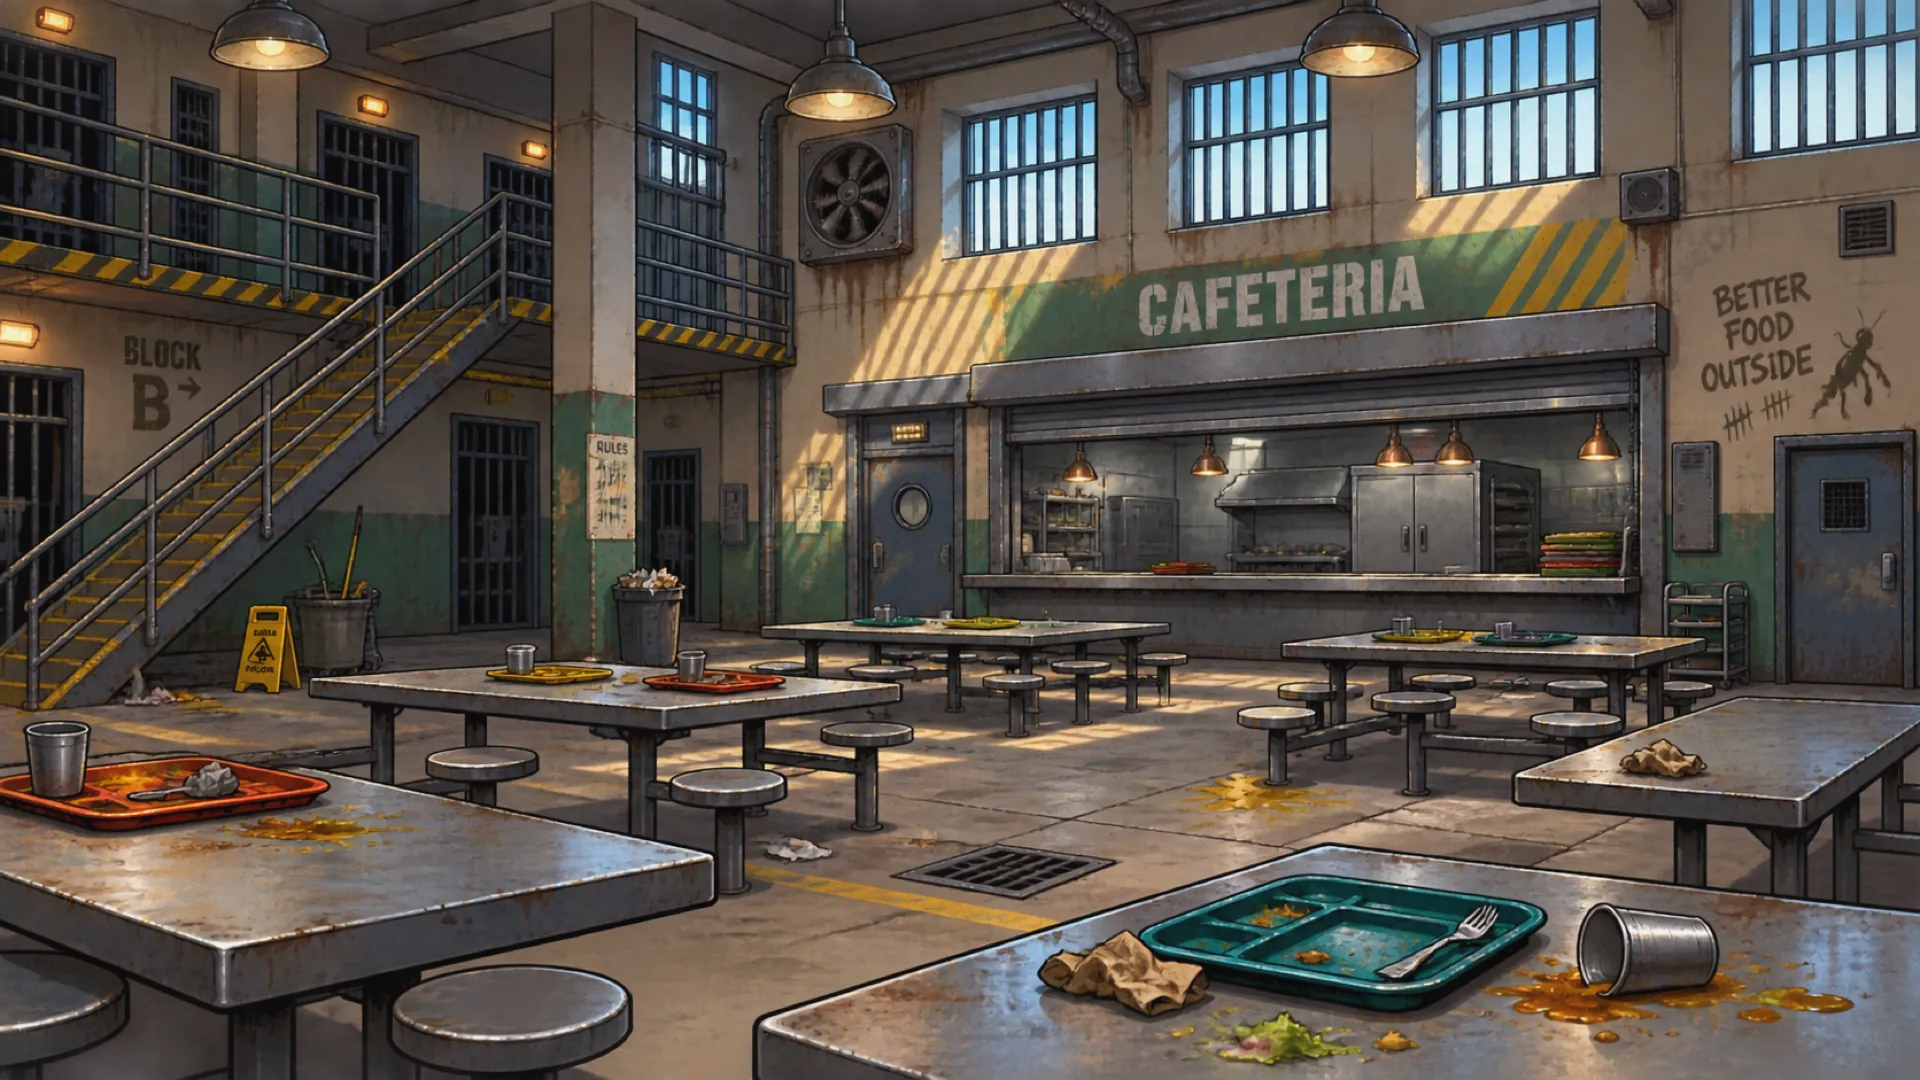
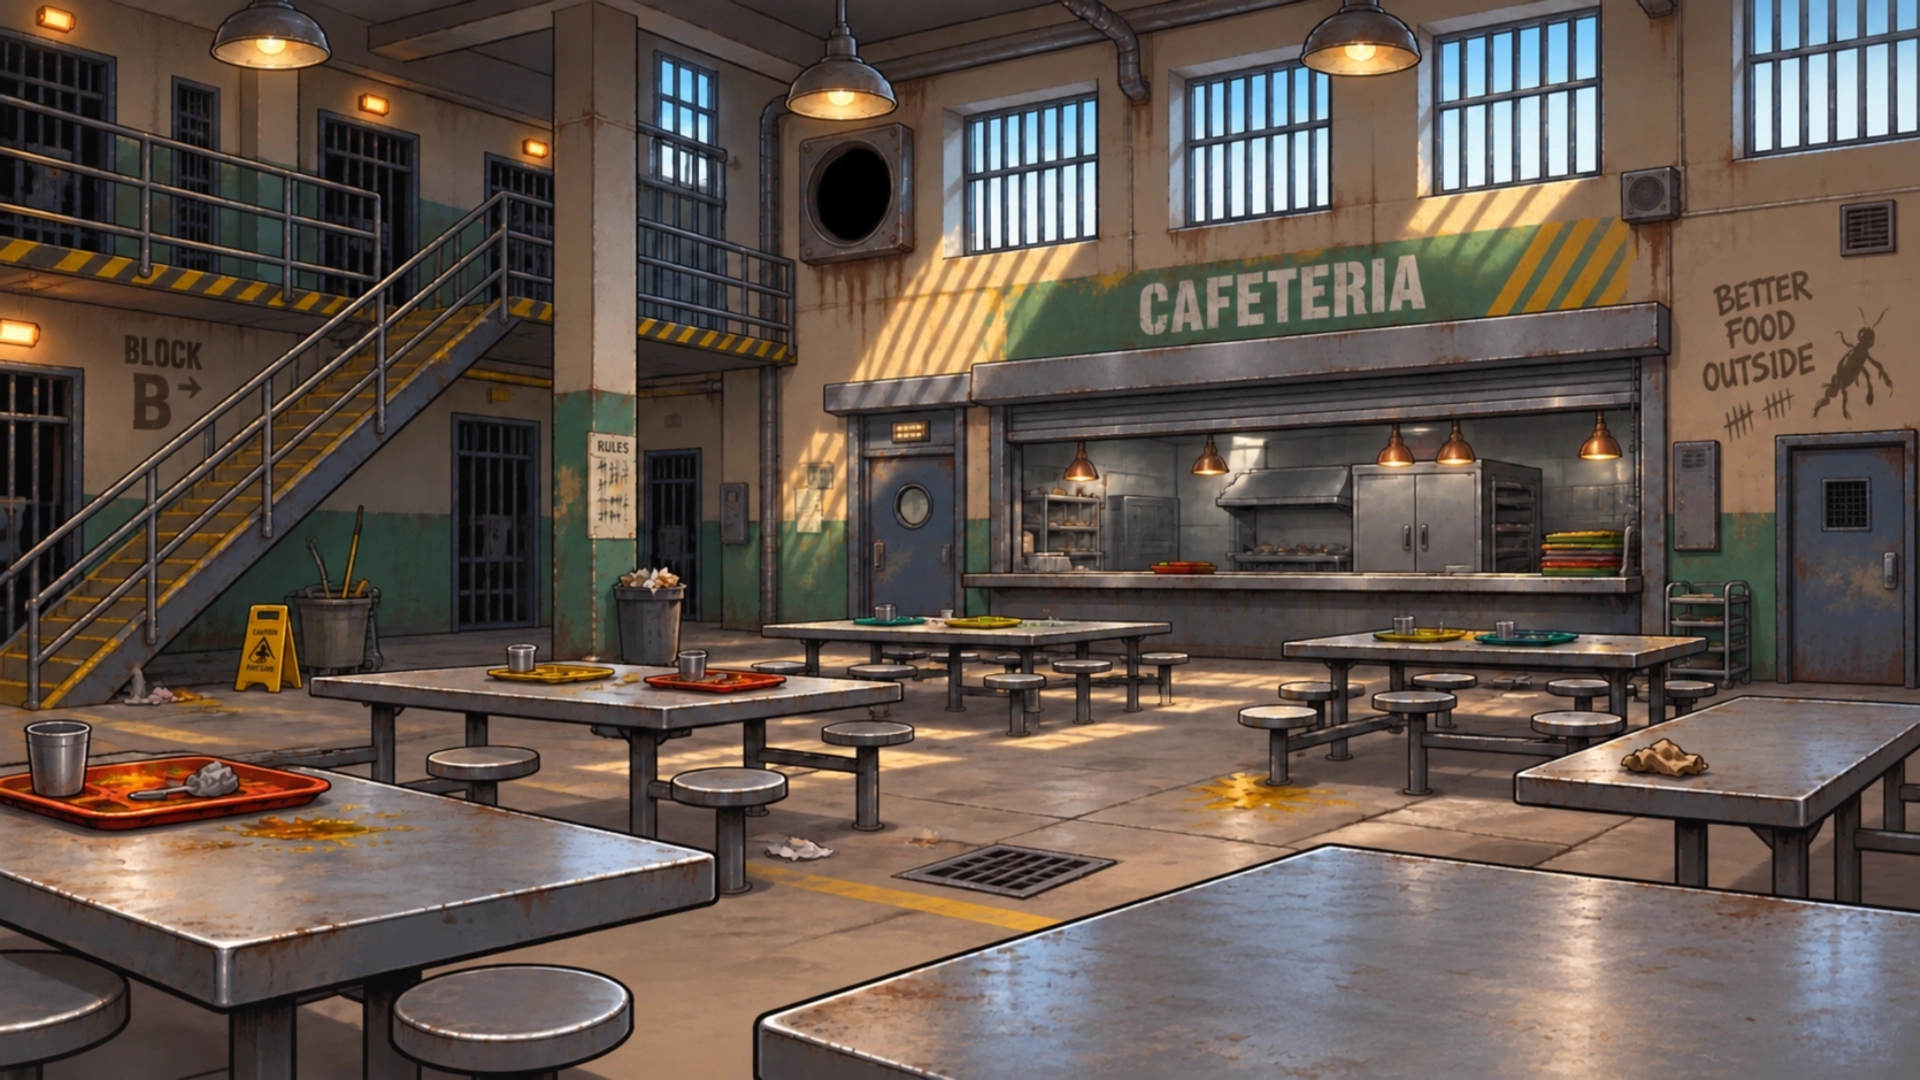
Ambient layer: spinning exhaust fan on the base backdrop
- game/ambientSpec.ts: effects authored in 1920x1080 backdrop px; FAN tuned by Corey in the
  preview (hub 852.5,193.5; k 0.78; tilt 15 deg; 1.45 rev/s; 4 ghosts; clip 38x49)
- components/AmbientFan.svelte: raw Pixi, ticker-driven — blade ring under A·R(alpha), static
  hub cap under A, ghost copies spread over the frame's sweep for blur, Graphics ellipse mask;
  DEV hook window.__angryMantis.ambient.fan
- Background.svelte maps backdrop px through the cover fit and places the fan at zIndex -1.5,
  fading with the base scene
- Backdrop replaced with Corey's empty-housing repaint (1920x1080); fan-blades/fan-hub webp
  gated with it (+40 KB)

Claude-Session: https://claude.ai/code/session_013n4uKDP3YQ8SN8dqeXSaxL

diff --git a/apps/angry_mantis/src/components/AmbientFan.svelte b/apps/angry_mantis/src/components/AmbientFan.svelte
@@ -1,0 +1,91 @@
+<script lang="ts">
+	// Exhaust fan (game/ambientSpec.ts FAN): raw Pixi objects driven from the app ticker, like BoneRig —
+	// no per-frame Svelte props, no filters, no new textures. Tree:
+	//   root (mask: tilted ellipse)
+	//   └ persp  rotation = tilt, scale = (k, 1)      ← the perspective map A
+	//     ├ spin rotation = alpha (ticker)             ← N ghost blade sprites, alpha 1/N, trailing the sweep
+	//     └ hub  static cap, drawn over the blades
+	import * as PIXI from 'pixi.js';
+	import { onMount } from 'svelte';
+	import { getContextParent } from 'pixi-svelte';
+
+	import { getContext } from '../game/context';
+	import { FAN } from '../game/ambientSpec';
+
+	type Props = {
+		/** hub position in canvas px */
+		x: number;
+		y: number;
+		/** backdrop px → canvas px */
+		scale: number;
+		alpha?: number;
+		visible?: boolean;
+		zIndex?: number;
+	};
+	const { x, y, scale, alpha = 1, visible = true, zIndex = 0 }: Props = $props();
+	const context = getContext();
+
+	const root = new PIXI.Container();
+	getContextParent().addToParent(root); // unmount cleanup destroys the subtree
+	const persp = new PIXI.Container();
+	const spin = new PIXI.Container();
+	const tilt = (FAN.tiltDeg * Math.PI) / 180;
+	persp.rotation = tilt;
+	persp.scale.set(FAN.squashK, 1);
+	persp.addChild(spin);
+	root.addChild(persp);
+	// clip: an ellipse rotated with the tilt (NOT squashed — it outlines the housing hole, not the disc)
+	const clip = new PIXI.Graphics().ellipse(0, 0, FAN.clip.rx, FAN.clip.ry).fill(0xffffff);
+	clip.rotation = tilt;
+	root.addChild(clip);
+	root.mask = clip;
+
+	let rate = (FAN.revPerSec * Math.PI * 2) as number;
+	let angle = 0;
+	const ghosts: PIXI.Sprite[] = [];
+
+	onMount(() => {
+		const blades = context.stateApp.loadedAssets?.fanBlades as PIXI.Texture | undefined;
+		const hub = context.stateApp.loadedAssets?.fanHub as PIXI.Texture | undefined;
+		if (!blades || !hub) return;
+		const n = Math.max(1, FAN.blurSamples);
+		for (let i = 0; i < n; i++) {
+			const s = new PIXI.Sprite(blades);
+			s.anchor.set(FAN.pivot.x / blades.width, FAN.pivot.y / blades.height);
+			s.scale.set(FAN.cutoutScale);
+			s.alpha = 1 / n;
+			spin.addChild(s);
+			ghosts.push(s);
+		}
+		const cap = new PIXI.Sprite(hub);
+		cap.anchor.set(FAN.pivot.x / hub.width, FAN.pivot.y / hub.height);
+		cap.scale.set(FAN.cutoutScale);
+		persp.addChild(cap);
+
+		const ticker = context.stateApp.pixiApplication?.ticker;
+		const tick = () => {
+			if (!root.visible || root.worldAlpha <= 0) return;
+			const dt = Math.min(0.05, ticker!.deltaMS / 1000);
+			const sweep = rate * dt;
+			angle = (angle + sweep) % (Math.PI * 2);
+			for (let i = 0; i < ghosts.length; i++) ghosts[i].rotation = angle - (sweep * i) / ghosts.length;
+		};
+		ticker?.add(tick);
+		// test hook (house rules: extend __angryMantis, never a new global)
+		if (import.meta.env.DEV && typeof window !== 'undefined') {
+			const am = ((window as any).__angryMantis ??= {});
+			(am.ambient ??= {}).fan = { setRate: (rps: number) => (rate = rps * Math.PI * 2), angle: () => angle };
+		}
+		return () => {
+			ticker?.remove(tick);
+		};
+	});
+
+	$effect(() => {
+		root.position.set(x, y);
+		root.scale.set(scale);
+		root.alpha = alpha;
+		root.visible = visible;
+		root.zIndex = zIndex;
+	});
+</script>

diff --git a/apps/angry_mantis/src/components/Background.svelte b/apps/angry_mantis/src/components/Background.svelte
@@ -9,6 +9,8 @@
 
 	import { getContext } from '../game/context';
 	import { BACKGROUND_WASH } from '../game/constants';
+	import { BACKDROP, FAN } from '../game/ambientSpec';
+	import AmbientFan from './AmbientFan.svelte';
 
 	const context = getContext();
 	const IMAGE_RATIO = 1920 / 1080;
@@ -21,6 +23,7 @@
 			? { width, height: width / IMAGE_RATIO }
 			: { width: height * IMAGE_RATIO, height };
 	});
+	const backdropScale = $derived(cover.width / BACKDROP.w); // backdrop px → canvas px
 	const freegame = $derived(context.stateGame.gameType === 'freegame');
 	const active = $derived.by(() => {
 		if (!freegame) return 'bgCafeteriaBase';
@@ -52,6 +55,17 @@
 		/>
 	{/if}
 {/each}
+
+<!-- ambient layer, between the base backdrop and the wash: authored in backdrop px (ambientSpec.ts),
+     mapped through the same cover fit as the backdrop sprite. Only the base scene has the fan housing. -->
+<AmbientFan
+	x={context.stateLayoutDerived.canvasSizes().width / 2 + (FAN.hub.x - BACKDROP.w / 2) * backdropScale}
+	y={context.stateLayoutDerived.canvasSizes().height / 2 + (FAN.hub.y - BACKDROP.h / 2) * backdropScale}
+	scale={backdropScale}
+	alpha={alphas[0].current}
+	visible={alphas[0].current > 0}
+	zIndex={-1.5}
+/>
 
 <!-- dark wash so board/chrome contrast holds on the busier cafeteria art; a touch darker in free
      spins (levels in BACKGROUND_WASH) -->

diff --git a/apps/angry_mantis/src/game/ambientSpec.ts b/apps/angry_mantis/src/game/ambientSpec.ts
@@ -1,0 +1,22 @@
+// Ambient background layer (docs/superpowers/plans/2026-09-06-cafeteria-ambient-layer.md): everything
+// here is authored in BACKDROP PIXELS of the 1920×1080 base scene, the space the art was cut from.
+// Background.svelte maps that space onto the cover-fitted backdrop sprite, so an effect lands on the
+// same brick on every layout without per-kind coordinates.
+export const BACKDROP = { w: 1920, h: 1080 };
+
+// Exhaust fan on the back wall. Tuned by Corey in the preview artifact (0d0d8c5e…, 2026-09-06).
+// Two layers cut from the un-squashed fan: a seven-blade ring that spins and a hub cap that never
+// turns, both 372² at 4K scale (hence cutoutScale 0.25 here). The perspective is one affine map,
+// A = R(tilt) · S(k, 1): the blade ring gets A · R(alpha), the cap gets A only. Ghost copies spread
+// over each frame's sweep stand in for motion blur (no filters — house rules). The ellipse clip keeps
+// blade tips off the housing rim.
+export const FAN = {
+	hub: { x: 852.5, y: 193.5 },
+	cutoutScale: 0.25,
+	pivot: { x: 185.5, y: 185.5 }, // hub in the 372² sources (their centre)
+	squashK: 0.78,
+	tiltDeg: 15,
+	revPerSec: 1.45,
+	blurSamples: 4,
+	clip: { rx: 38, ry: 49 },
+};

diff --git a/apps/angry_mantis/src/game/assets.ts b/apps/angry_mantis/src/game/assets.ts
@@ -68,6 +68,10 @@ export default {
 	// bonus-intro headshots (real character art)
 	// soft ellipse under each mantis's feet (BoneRig ground shadow); tiny, so it rides the preload
 	groundShadow: { type: 'sprite', src: stamp(new URL('../../assets/ui/ground-shadow.webp', import.meta.url).href), preload: true },
+	// ambient background layer (game/ambientSpec.ts): the exhaust fan's blade ring + static hub cap.
+	// Gated with the base backdrop — the housing is empty in the art, so the fan must be there at first paint.
+	fanBlades: { type: 'sprite', src: stamp(new URL('../../assets/ui/ambient/fan-blades.webp', import.meta.url).href), preload: true },
+	fanHub: { type: 'sprite', src: stamp(new URL('../../assets/ui/ambient/fan-hub.webp', import.meta.url).href), preload: true },
 	martyHeadshot: { type: 'sprite', src: stamp(new URL('../../assets/characters/marty-headshot.webp', import.meta.url).href), preload: false },
 	markyHeadshot: { type: 'sprite', src: stamp(new URL('../../assets/characters/marky-headshot.webp', import.meta.url).href), preload: false },
 	amSymbols: {

diff --git a/apps/angry_mantis/src/game/assetStamp.ts b/apps/angry_mantis/src/game/assetStamp.ts
@@ -45,11 +45,13 @@ export default {
 	"tiles/s.webp": "e20092fd",
 	"tiles/w.webp": "e526f8e5",
 	"ui/20000x.webp": "8ebb5df1",
+	"ui/ambient/fan-blades.webp": "1dbc01e2",
+	"ui/ambient/fan-hub.webp": "91c5c846",
 	"ui/board-frame-cafeteria.webp": "cd803926",
 	"ui/board-frame-reflect.png": "d4772bda",
 	"ui/branded-glyphs/branded-glyphs.json": "20ccba5e",
 	"ui/branded-glyphs/branded-glyphs.webp": "80eed223",
-	"ui/cafeteria-background-base-bonus.webp": "76391bf5",
+	"ui/cafeteria-background-base-bonus.webp": "7d682d03",
 	"ui/cafeteria-background-feast.webp": "29c95526",
 	"ui/cafeteria-background-super.webp": "bfefa96d",
 	"ui/door-steel.webp": "b47482d0",
